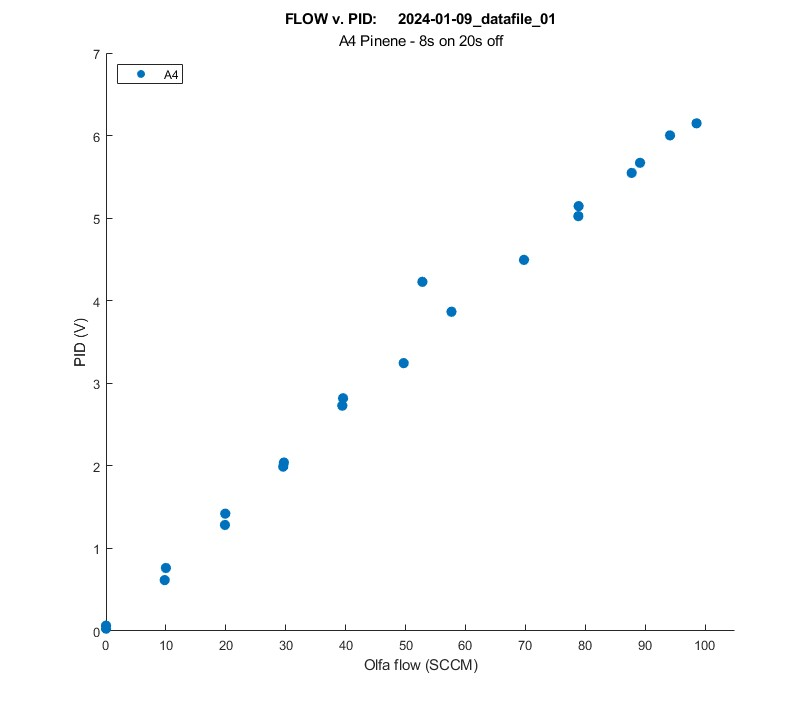
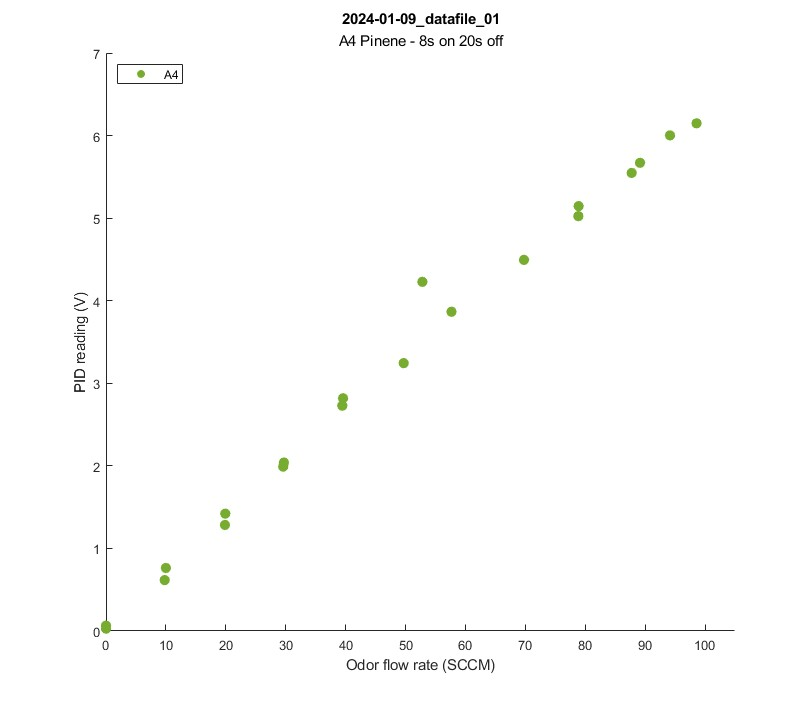
Analysis: plot_spt_char - removed duplicate error checks, reorganized IF statements (for consistency), updated default flow lims, added PID color for flow v. pid plot, more comments
README: added details to 'plots entire trial', 'plots flow v. pid'

diff --git a/analysis/a_plot_spt_char.m b/analysis/a_plot_spt_char.m
@@ -45,7 +45,7 @@ arguments
 
         % Axis Limits
         plot_opts.pid_lims          (1,:) double = [0 3]
-        plot_opts.flow_lims_sccm    (1,:) double = [0 120]
+        plot_opts.flow_lims_sccm    (1,:) double = [0 105]
         
         % Additional Figures
         plot_opts.plot_over_time    (1,1) string = 'no'     % plot the entire trial over time
@@ -75,6 +75,7 @@ f.flow_lims_int = [];
 f.flow_width = 1;
 f.pid_width = 1.5;
 f.dot_size = 60;
+f.PID_color = '#77AC30';
 
 % Vial colors
 f.colors{1} = '#0072BD';
@@ -118,7 +119,6 @@ clearvars c_*
 dir_this_mat_file = strcat(a_dir_OlfaControlGUI,'\analysis\data (.mat files)\',a_thisfile_name,'.mat');
 
 try
-    %load(dir_this_mat_file);
     load(dir_this_mat_file,'d_olfa_flow','a_this_note','data_time_raw','data_pid');
 
     %% Cut additional time off (& recalculate stats)
@@ -161,14 +161,15 @@ try
     end
     clearvars this_*
 
-    %% Plot the whole thing over time
+    %% If selected: Plot the whole thing over time
     if strcmp(plot_opts.plot_over_time,'yes')
         
         % Create figure
         figTitle_main = a_thisfile_name;
         if ~strcmp(a_this_note, ''); figTitle_main = append(figTitle_main, ': ',  a_this_note); end
         f1 = figure; f1.NumberTitle = 'off'; f1.Position = f0.position; hold on;
-        f1.Name = a_thisfile_name; title(figTitle_main)
+        f1.Name = a_thisfile_name;
+        title(figTitle_main)
         if strcmp(plot_opts.legend_on,'yes'); legend('Location','northwest'); end
         f1_ax = gca;
         
@@ -184,40 +185,23 @@ try
         %% Plot: Olfa flow
         % For each vial
         for i=1:length(d_olfa_flow)
-            % Plot as SCCM or integer values
             if strcmp(plot_opts.flow_in_SCCM,'yes')
-                % if this vial has a calibration table
-                if ~isempty(d_olfa_flow(i).cal_table_name)
-                    % Plot as SCCM
-                    if ~isempty(d_olfa_flow(i).flow.flow_sccm)
-                        ylabel('Odor flow rate (SCCM)')
-                        p = plot(d_olfa_flow(i).flow.flow_sccm(:,1),d_olfa_flow(i).flow.flow_sccm(:,2));
-                        if ~isempty(plot_opts.flow_lims_sccm); ylim(plot_opts.flow_lims_sccm)
-                        else; ylim([-5 150]); end
-                    end
-                else
-                    % Plot as integer
-                    if ~isempty(d_olfa_flow(i).flow.flow_int)
-                        ylabel('Odor flow rate (integer values)')
-                        p = plot(d_olfa_flow(i).flow.flow_int(:,1),d_olfa_flow(i).flow.flow_int(:,2));
-                        if ~isempty(f.flow_lims_int); ylim(f.flow_lims_int)
-                        else; ylim([0 1024]); end
-                    end
+                % Plot as SCCM
+                if ~isempty(d_olfa_flow(i).flow.flow_sccm)
+                    ylabel('Odor flow rate (SCCM)')
+                    p = plot(d_olfa_flow(i).flow.flow_sccm(:,1),d_olfa_flow(i).flow.flow_sccm(:,2));
+                    ylim(plot_opts.flow_lims_sccm);
                 end
-                p.LineWidth = f.flow_width;
-                p.DisplayName = [d_olfa_flow(i).vial_num ' flow'];
-                
             else
                 % Plot as integer
                 if ~isempty(d_olfa_flow(i).flow.flow_int)
                     ylabel('Odor flow (integer values)')
                     p = plot(d_olfa_flow(i).flow.flow_int(:,1),d_olfa_flow(i).flow.flow_int(:,2));
-                    p.LineWidth = f.flow_width;
-                    p.DisplayName = [d_olfa_flow(i).vial_num ' flow'];
-                    if ~isempty(f.flow_lims_int); ylim(f.flow_lims_int)
-                    else; ylim([0 1024]); end
+                    ylim(f.flow_lims_int);
                 end
             end
+            p.LineWidth = f.flow_width;
+            p.DisplayName = [d_olfa_flow(i).vial_num ' flow'];
         end
         
         %% Plot: PID
@@ -233,16 +217,15 @@ try
         end
     end
     
-    
     %% Plot: each section individually
     if strcmp(plot_opts.plot_all,'yes')
         time_around_event = 3;
-        % for each vial
+        % For each vial
         for i=1:length(d_olfa_flow)
             this_vial = d_olfa_flow(i).vial_num;
         
             % since i don't have setpoint data let's do it by OV events
-            % for each OV event
+            % For each OV event
             for e=1:length(d_olfa_flow(i).events.OV_keep)
                 t_beg_event = d_olfa_flow(i).events.OV_keep(e).t_event;  % actual time of OV
                 t_end_event = d_olfa_flow(i).events.OV_keep(e).t_end;
@@ -351,8 +334,7 @@ try
     
     % Create figure
     f2 = figure; f2.NumberTitle = 'off'; f2.Position = plot_opts.fig_position; hold on;
-    %f2.Name = ['FLOW v. PID: ',a_thisfile_name];
-    f2.Name = 'FLOW v. PID';
+    f2.Name = 'FLOW v. PID: '+ a_thisfile_name;
     title(a_thisfile_name);
     subtitle(a_this_note);
     if strcmp(plot_opts.legend_on,'yes'); legend('Location','northwest'); end
@@ -360,57 +342,61 @@ try
     ylabel('PID reading (V)')
     if ~isempty(plot_opts.pid_lims); ylim(plot_opts.pid_lims); end
     
+    % Plot the mean values for this vial
     % For each vial
     for i=1:length(d_olfa_flow)
-        if ~isempty(d_olfa_flow(i).int_means)
-            % Plot the values for this vial
-            if strcmp(plot_opts.flow_in_SCCM,'no')
-                p = scatter(d_olfa_flow(i).int_means(:,1),d_olfa_flow(i).int_means(:,2),f.dot_size,'filled');
-                xlabel('Odor flow rate (int)');
-                if ~isempty(f.flow_lims_int); f2_ax.XLim = f.flow_lims_int; end
-            end
-            if strcmp(plot_opts.flow_in_SCCM,'yes')
+        if strcmp(plot_opts.flow_in_SCCM,'yes')
+            % Plot as SCCM
+            if ~isempty(d_olfa_flow(i).sccm_means)
                 p = scatter(d_olfa_flow(i).sccm_means(:,1),d_olfa_flow(i).sccm_means(:,2),f.dot_size,'filled');
                 xlabel('Odor flow rate (SCCM)');
                 if ~isempty(plot_opts.flow_lims_sccm); f2_ax.XLim = plot_opts.flow_lims_sccm; end
             end
-            p.DisplayName = d_olfa_flow(i).vial_num;
-            p.MarkerFaceColor = f.colors{i};
+        else
+            % Plot as integer
+            if ~isempty(d_olfa_flow(i).int_means)
+                p = scatter(d_olfa_flow(i).int_means(:,1),d_olfa_flow(i).int_means(:,2),f.dot_size,'filled');
+                xlabel('Odor flow rate (int)');
+                if ~isempty(f.flow_lims_int); f2_ax.XLim = f.flow_lims_int; end
+            end
+        end
+        p.DisplayName = d_olfa_flow(i).vial_num;
+        %p.MarkerFaceColor = f.colors{i};
+        p.MarkerFaceColor = f.PID_color;
 
-            %% Plot: Error bars
-            if strcmp(plot_opts.show_error_bars,'yes')
+        %% Plot: Error bars
+        if strcmp(plot_opts.show_error_bars,'yes')
 
-                % Mean values
-                if strcmp(plot_opts.flow_in_SCCM,'no')
-                    x = d_olfa_flow(i).int_means(:,1);
-                    y = d_olfa_flow(i).int_means(:,2);
-                else
-                    x = d_olfa_flow(i).sccm_means(:,1);
-                    y = d_olfa_flow(i).sccm_means(:,2);
-                end
-
-                % Standard deviations
-                for e=1:length(d_olfa_flow(i).sccm_means)
-                    % Flow
-                    if strcmp(plot_opts.flow_in_SCCM,'no'); flow_std = d_olfa_flow(i).events.OV_keep(e).flow_std_int;
-                    else;                                   flow_std = d_olfa_flow(i).events.OV_keep(e).flow_std_sccm; end
-                    % PID
-                    pid_std = d_olfa_flow(i).events.OV_keep(e).pid_std;
-                    
-                    xneg(e,1) = flow_std/2;
-                    xpos(e,1) = flow_std/2;
-                    yneg(e,1) = pid_std/2;
-                    ypos(e,1) = pid_std/2;
-
-                end
-
-                % Plot error bars
-                e = errorbar(x,y,yneg,ypos,xneg,xpos,'o');
-                e.HandleVisibility = 'off';
-                e.Color = p.MarkerFaceColor;
+            % Mean values
+            if strcmp(plot_opts.flow_in_SCCM,'no')
+                x = d_olfa_flow(i).int_means(:,1);
+                y = d_olfa_flow(i).int_means(:,2);
+            else
+                x = d_olfa_flow(i).sccm_means(:,1);
+                y = d_olfa_flow(i).sccm_means(:,2);
             end
 
+            % Standard deviations
+            for e=1:length(d_olfa_flow(i).sccm_means)
+                % Flow
+                if strcmp(plot_opts.flow_in_SCCM,'no'); flow_std = d_olfa_flow(i).events.OV_keep(e).flow_std_int;
+                else;                                   flow_std = d_olfa_flow(i).events.OV_keep(e).flow_std_sccm; end
+                % PID
+                pid_std = d_olfa_flow(i).events.OV_keep(e).pid_std;
+                
+                xneg(e,1) = flow_std/2;
+                xpos(e,1) = flow_std/2;
+                yneg(e,1) = pid_std/2;
+                ypos(e,1) = pid_std/2;
+
+            end
+
+            % Plot error bars
+            e = errorbar(x,y,yneg,ypos,xneg,xpos,'o');
+            e.HandleVisibility = 'off';
+            e.Color = p.MarkerFaceColor;
         end
+
     end
     clearvars x xneg xpos y yneg ypos    
 

diff --git a/analysis/Documentation/README_a_plot_spt_char.md b/analysis/Documentation/README_a_plot_spt_char.md
@@ -105,17 +105,22 @@ X-lines show the timeframe where the mean was calculated from (usually relevant 
     - Recalculates means & standard deviations (adds them back into the structs)
     </details>
 
-4. If selected: **Plots entire trial** (flow & PID over time)  
-  `plot_opts.plot_over_time`
+4. If selected: **Plots entire trial** (flow & PID over time) (`plot_opts.plot_over_time`)  
+    <details>
+    
+    - Create/set up figure
+      - If selected: Set X limits (`plot_opts.x_lim`)
+    - **Plot olfa flow**
+      - For each vial:
+        - Plot data (SCCM or int) (`plot_opts.flow_in_SCCM`)
+        - Set Y-Limits (`plot_opts.flow_lims`)
+    - **Plot PID**
+      - Set Y-Limits (`plot_opts.pid_lims`)
+    </details>
+  
   <p align="center"><img src="images/examples/spt_char_overtime.jpg" width="50%"></p>
 
-
-5. If selected: **Plots each event section individually**  
-  `plot_opts.plot_all`
-    <p align="center">
-        <img src="images/examples/spt_char_plot_all_01.jpg" width="30%">
-        <img src="images/examples/spt_char_plot_all_02.jpg" width="30%">
-    </p>
+5. If selected: **Plots each event section individually** (`plot_opts.plot_all`)  
     <details>
 
     - For each vial:  
@@ -132,12 +137,27 @@ X-lines show the timeframe where the mean was calculated from (usually relevant 
               - **Plot PID data**
               - If selected: **Plot PID mean on top** (`plot_opts.show_pid_mean`)
           - If selected: **Plot X-lines** showing where the mean values were calculated from (`plot_opts.show_x_lines`)
-  </details>
+    </details>
+
+      <p align="center">
+          <img src="images/examples/spt_char_plot_all_01.jpg" width="30%">
+          <img src="images/examples/spt_char_plot_all_02.jpg" width="30%">
+      </p>
 
 6. **Plots flow v. PID** (mean value over duration of each event)  
-  If selected: **Plots error bars**
-  `plot_opts.show_error_bars`
+  If selected: **Plots error bars** (`plot_opts.show_error_bars`)
+    <details>
+
+    - Create/set up figure
+    - For each vial:
+      - Plot mean flow v. mean PID (flow as integer or SCCM, `plot_opts.flow_in_SCCM`)
+        - Set Y-Limits (`plot_opts.flow_lims_sccm`, `f.flow_lims_int`)
+        - Set Marker Color********
+        - If selected: **Plot error bars** (`plot_opts.show_error_bars`)
+    </details>
+
   <p align="center"><img src="images/examples/spt_char_default.jpg" width="30%"></p>
+
 
 ## Input Arguments
 
@@ -170,7 +190,7 @@ X-lines show the timeframe where the mean was calculated from (usually relevant 
 **pid_lims - Y-Limits for PID data**  
 &nbsp;&nbsp;[0 3] (default) | two-element vector  
 **flow_lims_sccm - Y-Limits for Olfa flow data**  
-&nbsp;&nbsp;[0 120] (default) | two-element vector  
+&nbsp;&nbsp;[0 105] (default) | two-element vector  
 <br>
 
 ### Other
